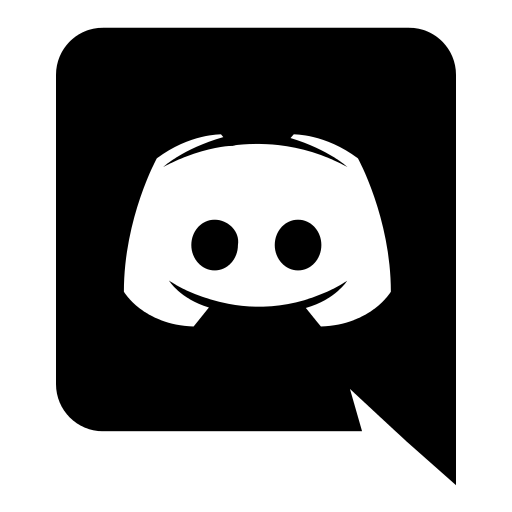
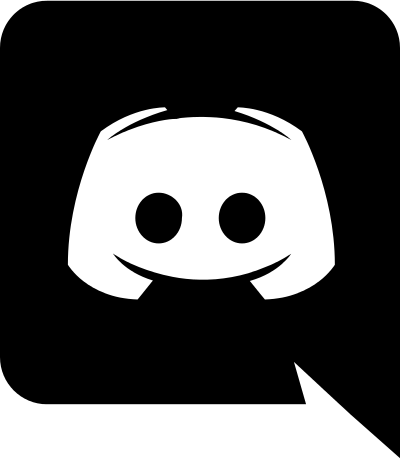
3

diff --git a/index.html b/index.html
@@ -5,7 +5,7 @@
 <link rel="stylesheet" type="text/css" href="main.css">
 </head>
 
-<body bgcolor="#e4e9ec">
+<body bgcolor="#f1f1f1">
 
 <img id="DDL" src="DestinationLogo.png" height="90" width=90" />
 
@@ -18,7 +18,7 @@
 <div id=Navbar>
 <ul style="list-style-type:none">
 <li><a href="https://discord.gg/rjWTyYE">
-<img src="DiscordIcon.png" alt="Go to W3Schools!" width="22" height="22" border="0"></a></li>
+<img id="Discord" src="DiscordIcon.png" alt="Go to W3Schools!" width="22" height="25" border="0"></a></li>
 <li>About Us</li>
 <li>Our Vision</li>
 <li>Volunteer</li>

diff --git a/main.css b/main.css
@@ -52,6 +52,10 @@
 	font-family: "RobotoL", sans-serif
 }
 
+#Discord {
+	margin-bottom: -8px;
+}
+
 li {
 	display: inline;
 }
